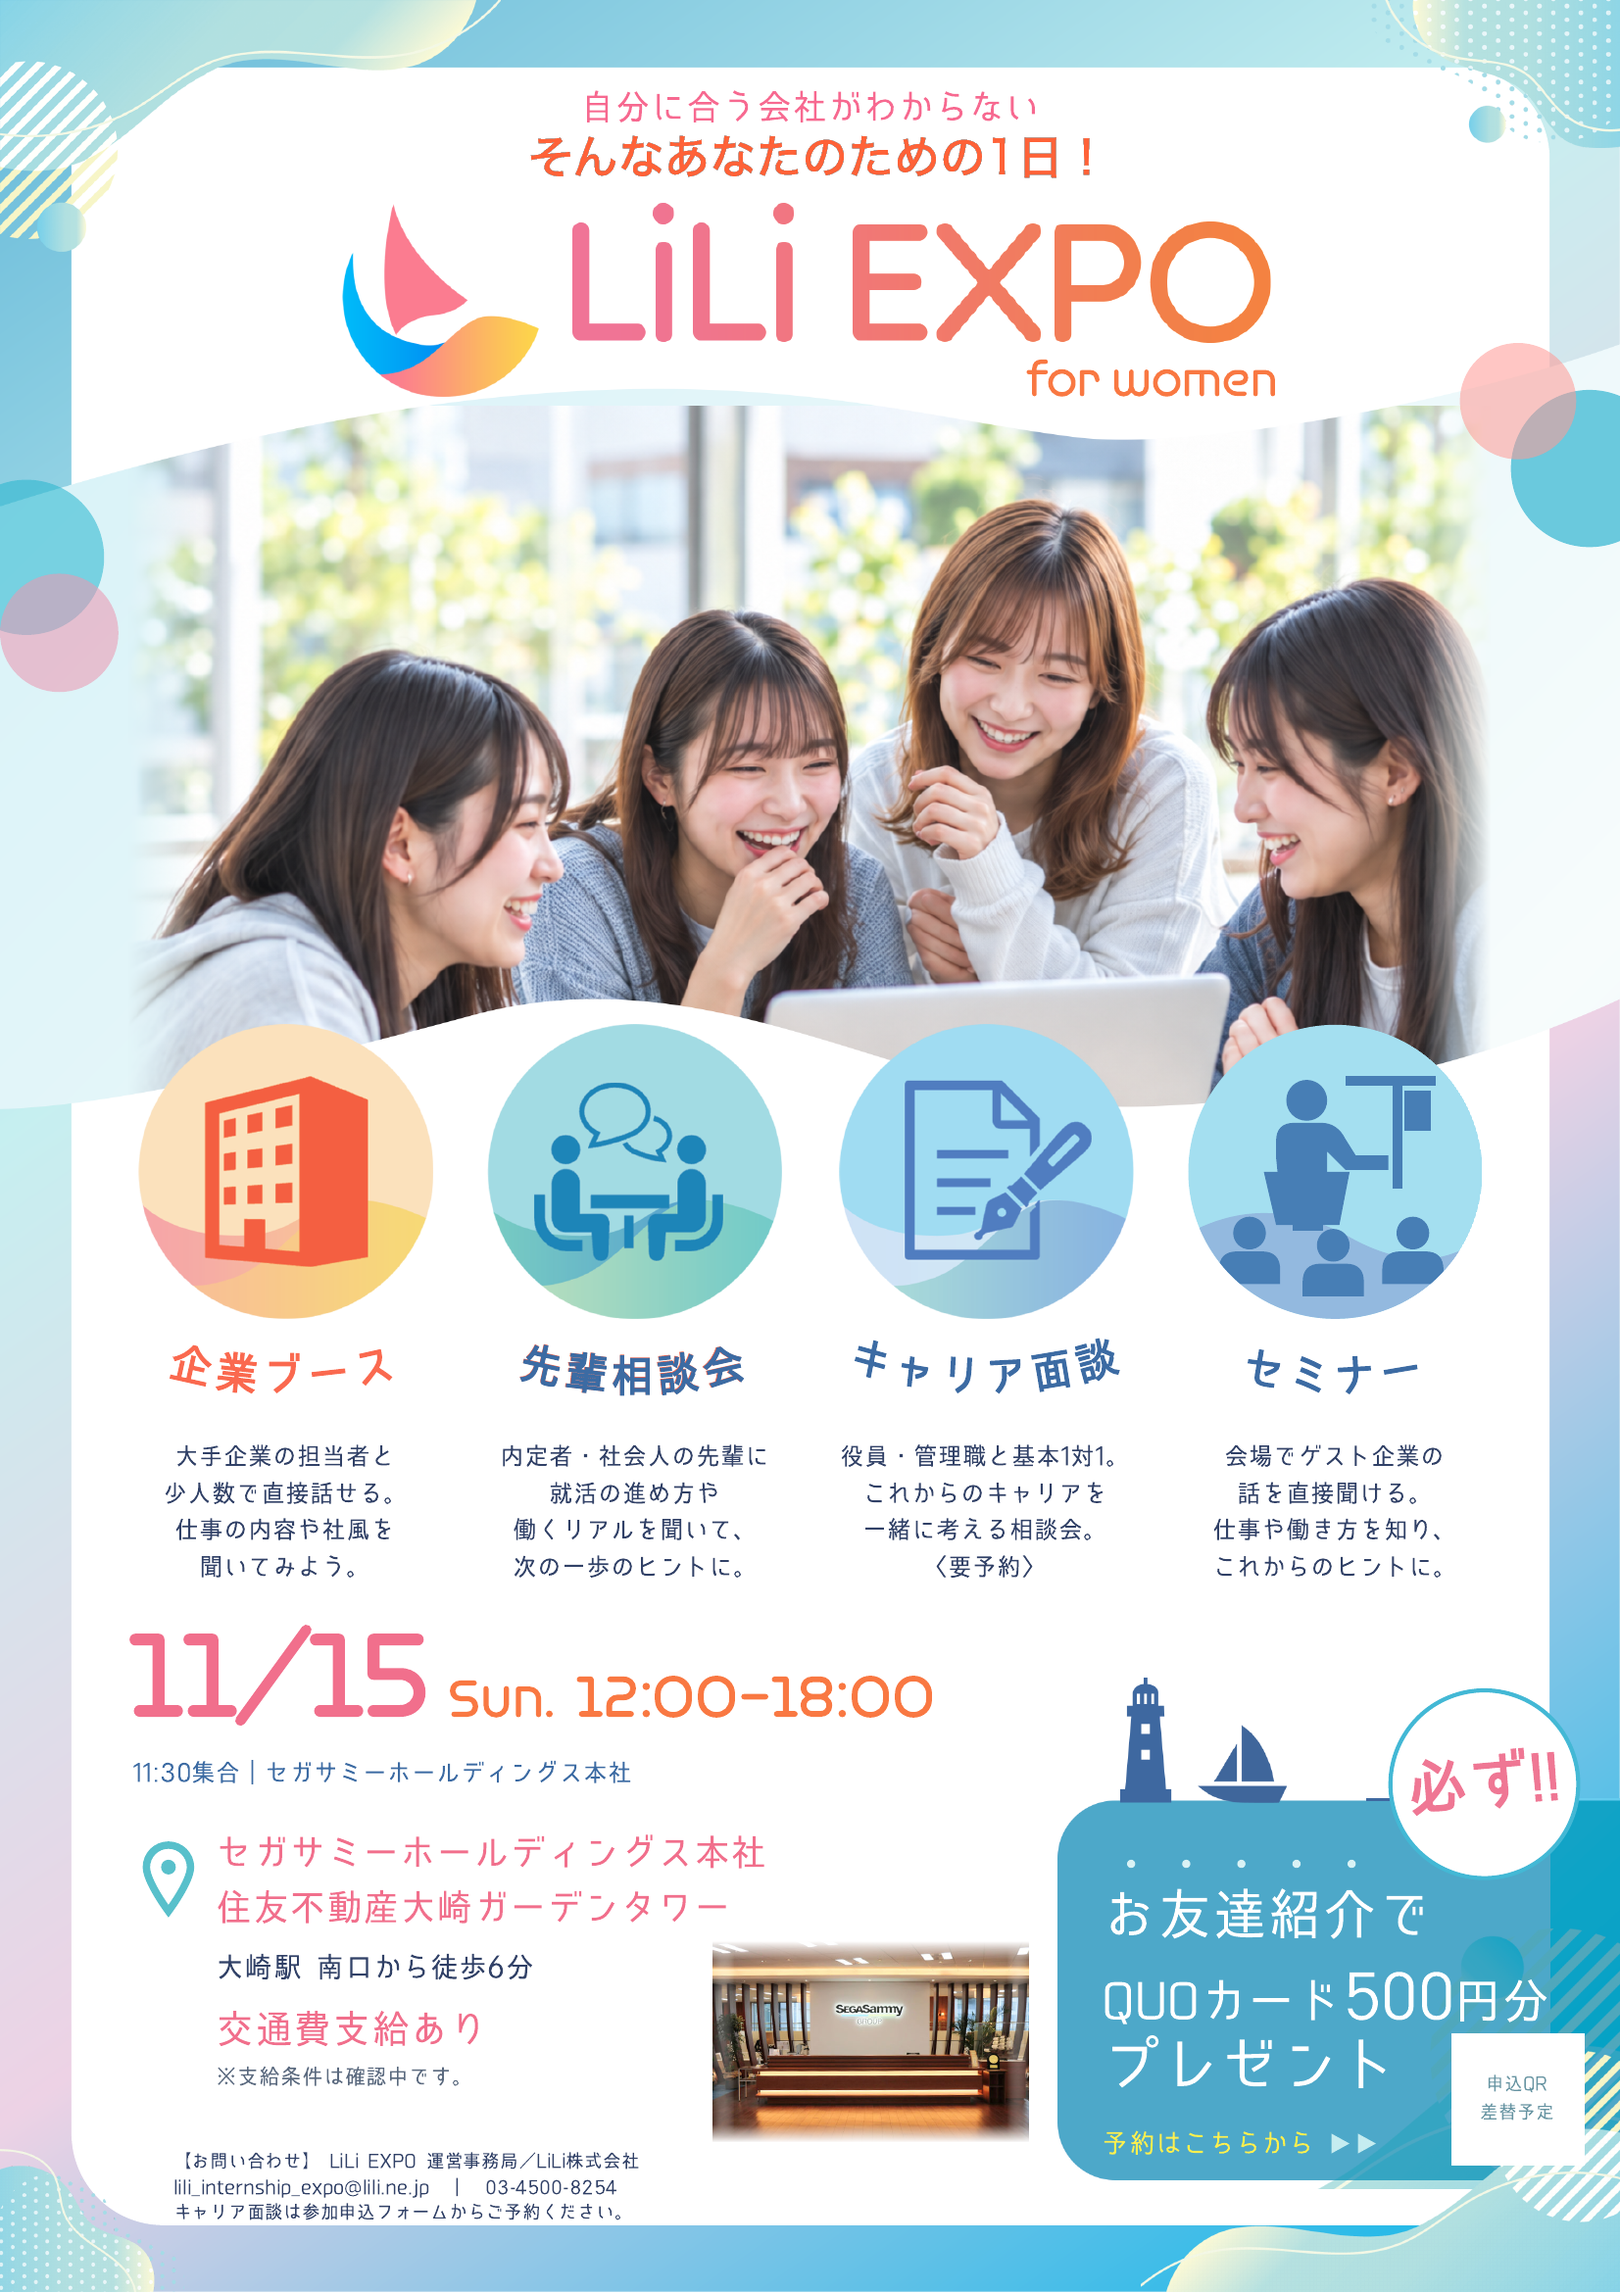
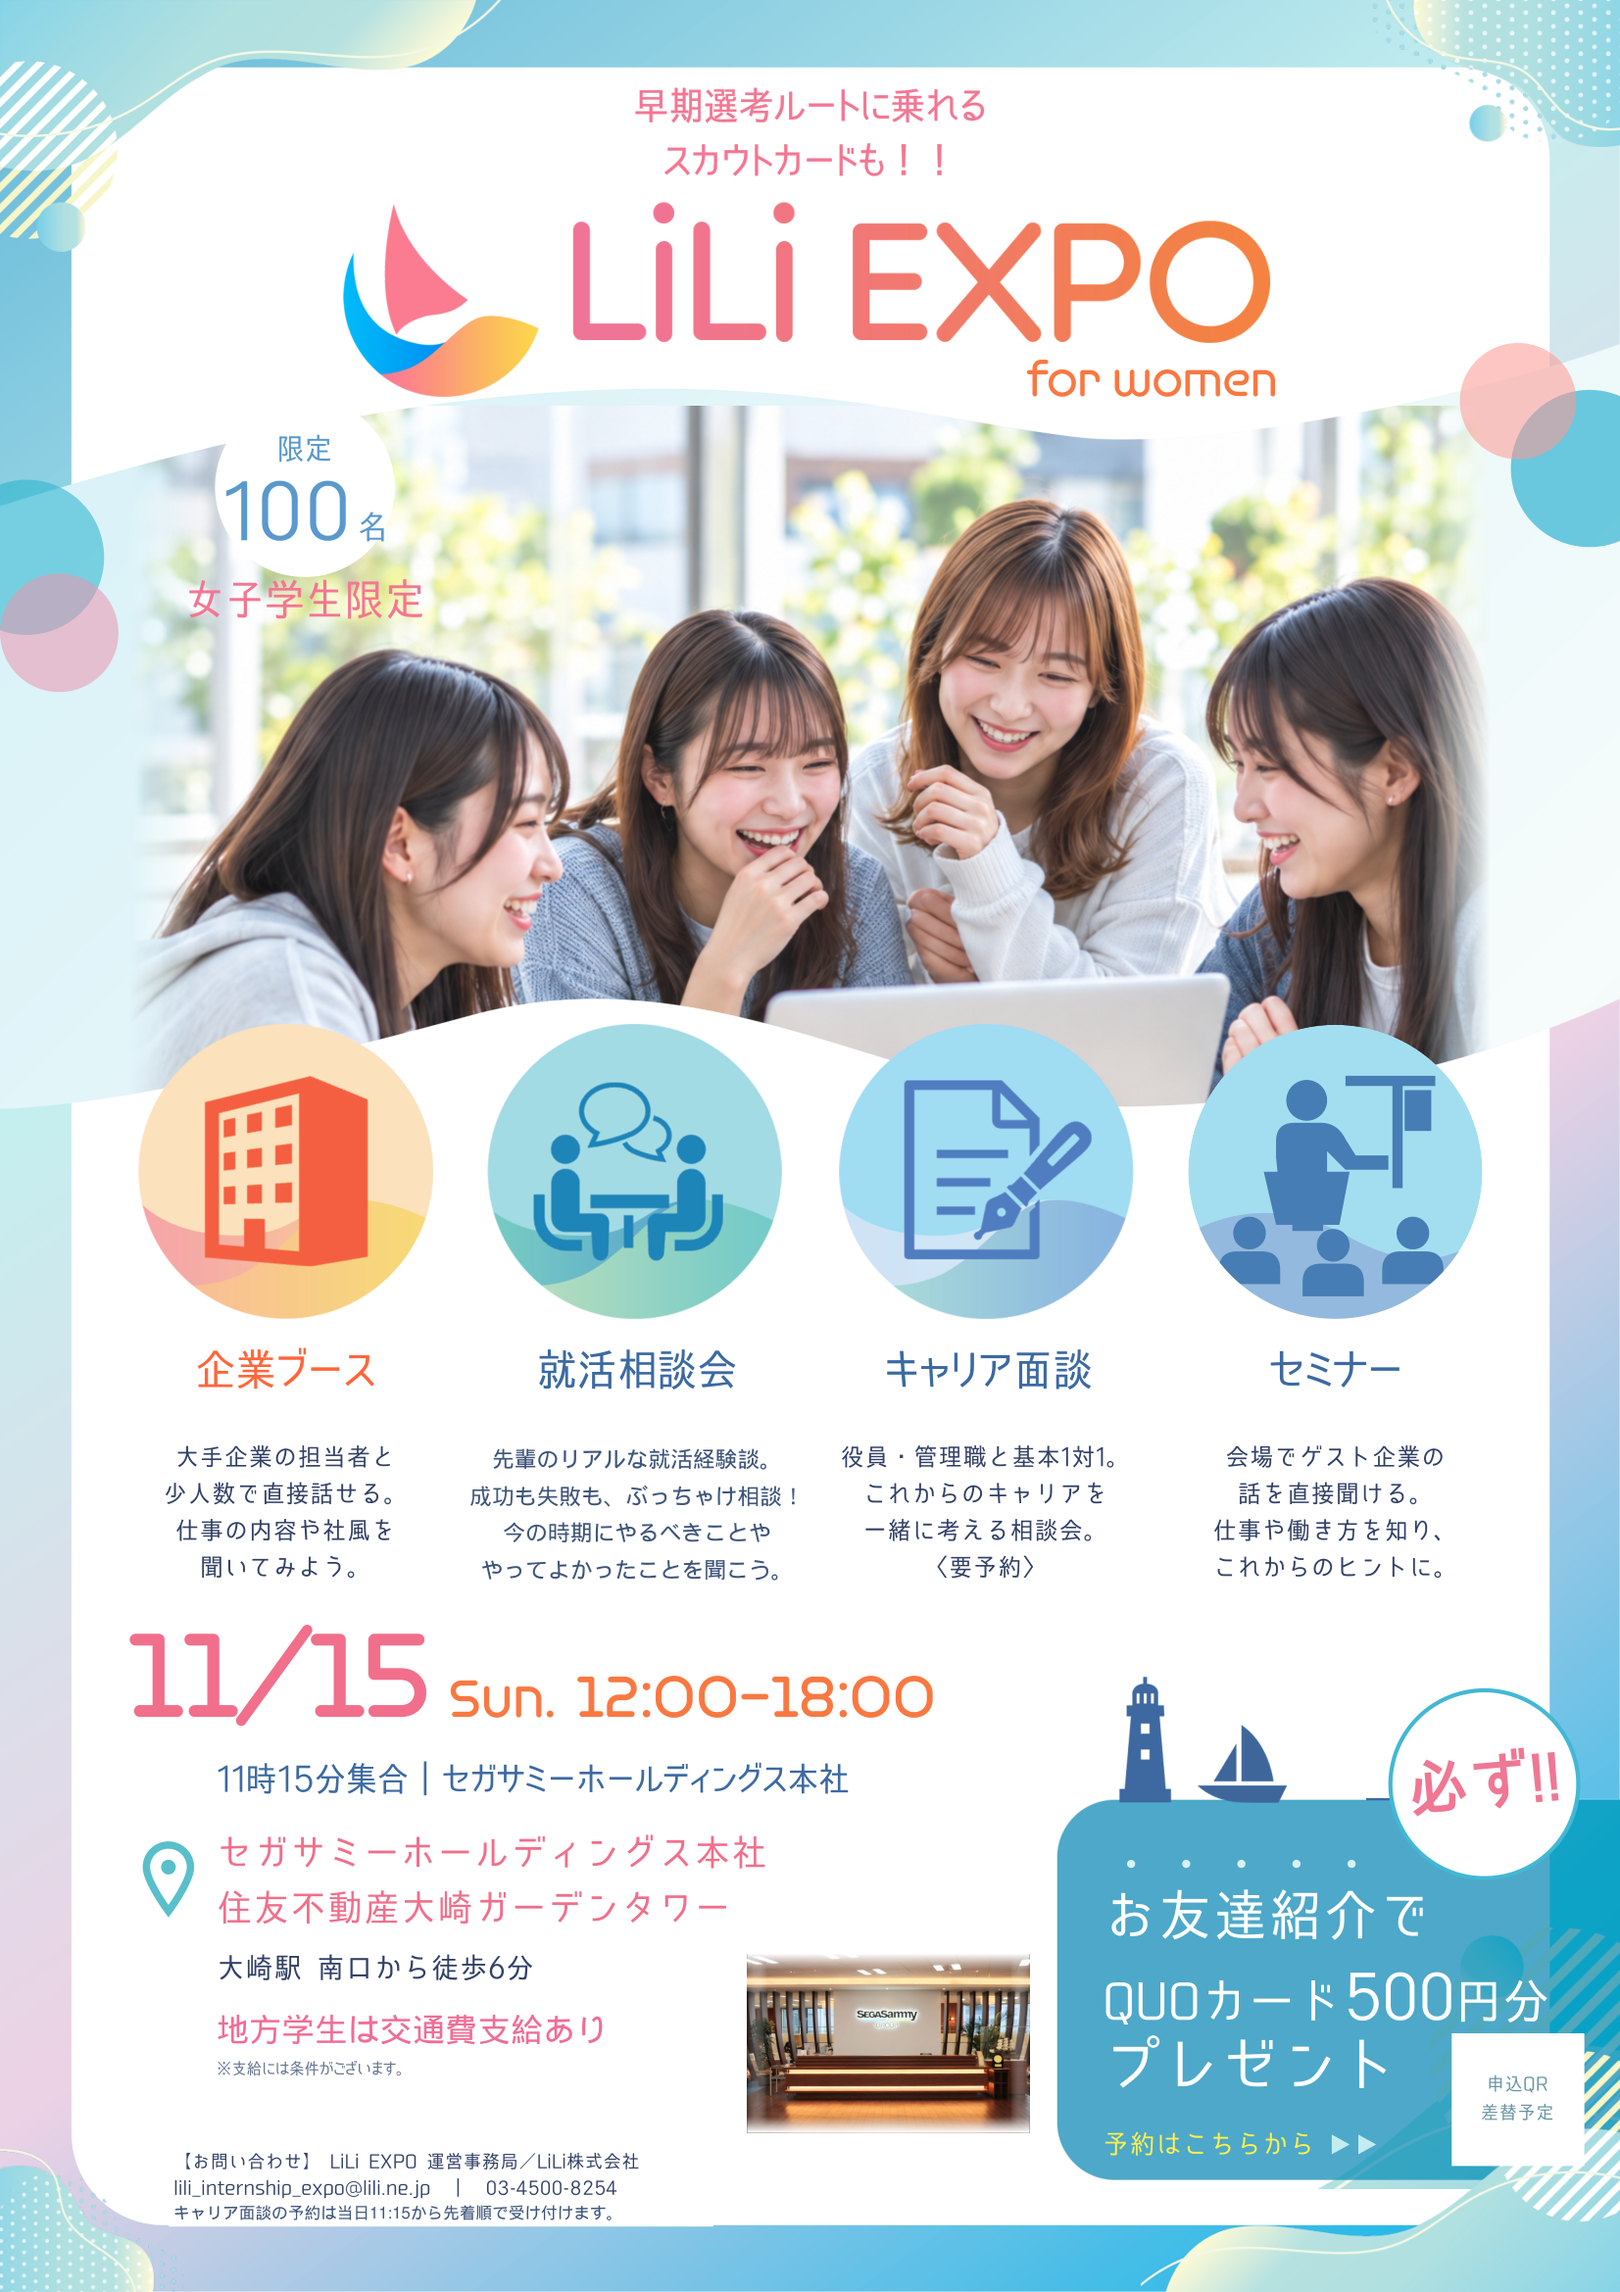
Replace flyers and simplify company showcase

diff --git a/index.html b/index.html
@@ -15,9 +15,9 @@
 
   <link rel="icon" href="assets/logo_dake.png">
 
-  <link rel="stylesheet" href="css/style.css?v=13">
+  <link rel="stylesheet" href="css/style.css?v=14">
 
-  <script src="js/content.js?v=12" defer></script>
+  <script src="js/content.js?v=14" defer></script>
 
   <script src="js/script.js?v=1" defer></script>
 
@@ -1241,20 +1241,21 @@
         <div>
           <p class="section-label">PARTICIPATING COMPANIES</p>
           <h2 id="companiesTitle">参加予定企業</h2>
-          <p class="participating-companies-lead">大手企業をはじめ、さまざまな業界の担当者と直接話せます。</p>
+          <p class="participating-companies-lead">気になる企業の担当者と、少人数で直接話せます。</p>
         </div>
-        <p class="companies-update-note"><span>NEW</span>参加企業は<br>順次追加予定</p>
+        <p class="companies-update-note"><span aria-hidden="true"></span>参加企業は順次追加予定</p>
       </div>
       <ul class="company-name-list" id="participatingCompanies" aria-label="参加予定企業一覧">
-        <li><span>01</span><strong>KDDI</strong></li>
-        <li><span>02</span><strong>PwC</strong></li>
-        <li><span>03</span><strong>PERSOL</strong></li>
-        <li><span>04</span><strong>東京ガス</strong></li>
-        <li><span>05</span><strong>博報堂</strong></li>
-        <li><span>06</span><strong>セガサミーグループ</strong></li>
+        <li><strong>KDDI株式会社</strong></li>
+        <li><strong>PwCコンサルティング合同会社</strong></li>
+        <li><strong>富士通株式会社</strong></li>
+        <li><strong>株式会社博報堂</strong></li>
+        <li><strong>パーソルテンプスタッフ株式会社</strong></li>
+        <li><strong>東京ガスiネット株式会社</strong></li>
+        <li><strong>セガサミーグループ</strong></li>
       </ul>
       <div class="company-list-footer">
-        <p><strong id="participatingCompanyCount">現在6社を掲載中</strong><span>追加企業は決まり次第、このページでお知らせします。</span></p>
+        <p><strong>and more</strong><span>追加企業は決まり次第、このページでお知らせします。</span></p>
         <p class="company-list-note">※参加企業は変更になる場合があります。</p>
       </div>
     </section>
@@ -1634,7 +1635,7 @@
 
 
           <div class="flyer-preview" id="flyerFrontPreview">
-            <img src="assets/lili-expo-2026-11-15-front.png" alt="LiLi EXPO 2026年11月15日 正式版チラシ 表面" loading="lazy">
+            <img src="assets/lili-expo-2026-11-15-front.png?v=2" alt="LiLi EXPO 2026年11月15日 最新チラシ 表面" loading="lazy">
 
           </div>
 
@@ -1655,7 +1656,7 @@
           </div>
 
           <div class="flyer-preview" id="flyerBackPreview">
-            <img src="assets/lili-expo-2026-11-15-back.png" alt="LiLi EXPO 2026年11月15日 正式版チラシ 裏面" loading="lazy">
+            <img src="assets/lili-expo-2026-11-15-back.png?v=2" alt="LiLi EXPO 2026年11月15日 最新チラシ 裏面" loading="lazy">
           </div>
 
         </article>
@@ -2288,22 +2289,14 @@
       if (participatingCompanies && typeof LILI_CONTENT !== "undefined" && Array.isArray(LILI_CONTENT.participatingCompanies)) {
         participatingCompanies.replaceChildren();
 
-        LILI_CONTENT.participatingCompanies.forEach(function (company, index) {
+        LILI_CONTENT.participatingCompanies.forEach(function (company) {
           var item = document.createElement("li");
-          var number = document.createElement("span");
           var name = document.createElement("strong");
 
-          number.textContent = String(index + 1).padStart(2, "0");
           name.textContent = company;
-          item.append(number, name);
+          item.append(name);
           participatingCompanies.appendChild(item);
         });
-
-        var participatingCompanyCount = document.getElementById("participatingCompanyCount");
-
-        if (participatingCompanyCount) {
-          participatingCompanyCount.textContent = "現在" + LILI_CONTENT.participatingCompanies.length + "社を掲載中";
-        }
       }
 
       var organizationContact = document.getElementById("organizationContact");
@@ -2318,7 +2311,7 @@
       var flyerFrontPreview = document.getElementById("flyerFrontPreview");
 
       if (flyerFrontPreview) {
-        flyerFrontPreview.innerHTML = '<img src="assets/lili-expo-2026-11-15-front.png" alt="LiLi EXPO 2026年11月15日 正式版チラシ 表面" loading="lazy">';
+        flyerFrontPreview.innerHTML = '<img src="assets/lili-expo-2026-11-15-front.png?v=2" alt="LiLi EXPO 2026年11月15日 最新チラシ 表面" loading="lazy">';
       }
 
       /*

diff --git a/css/style.css b/css/style.css
@@ -2699,30 +2699,25 @@ summary:focus-visible {
   margin-top: clamp(38px, 6vw, 76px);
   padding: clamp(42px, 6vw, 76px);
   color: var(--ink);
-  background: #fff5f8;
-  border-top: 8px solid var(--pink);
-  border-left: 1px solid #f6ccd8;
-  box-shadow: 0 30px 80px rgba(113, 76, 91, .12);
+  background: #f6fbfd;
+  border: 1px solid #d9eef6;
 }
 
-.participating-companies-section::after {
-  content: "COMPANIES";
+.participating-companies-section::before {
+  content: "";
   position: absolute;
-  top: -32px;
-  right: -18px;
-  color: rgba(241, 111, 145, .075);
-  font-size: clamp(5rem, 13vw, 11rem);
-  font-weight: 900;
-  line-height: 1;
-  letter-spacing: -.06em;
-  pointer-events: none;
+  top: 0;
+  left: 0;
+  width: clamp(90px, 14vw, 180px);
+  height: 7px;
+  background: var(--pink);
 }
 
 .participating-companies-heading {
   position: relative;
   z-index: 1;
   display: grid;
-  grid-template-columns: minmax(0, 1fr) auto;
+  grid-template-columns: minmax(0, 1fr) max-content;
   gap: clamp(30px, 6vw, 84px);
   align-items: center;
   margin-bottom: clamp(34px, 5vw, 62px);
@@ -2748,26 +2743,20 @@ summary:focus-visible {
 }
 
 .companies-update-note {
-  min-width: 220px;
   margin: 0;
-  padding: 22px 28px;
-  color: var(--ink);
-  background: #fff;
-  border: 2px solid var(--pink);
-  font-size: clamp(1.15rem, 2vw, 1.5rem);
+  color: var(--pink-dark);
+  font-size: clamp(.95rem, 1.4vw, 1.08rem);
   font-weight: 800;
-  line-height: 1.5;
+  letter-spacing: .03em;
 }
 
 .companies-update-note span {
-  display: block;
-  width: fit-content;
-  margin-bottom: 8px;
-  padding: 2px 10px;
-  color: #fff;
+  display: inline-block;
+  width: 9px;
+  height: 9px;
+  margin-right: 10px;
+  border-radius: 50%;
   background: var(--pink);
-  font-size: .68rem;
-  letter-spacing: .14em;
 }
 
 .company-name-list {
@@ -2775,39 +2764,29 @@ summary:focus-visible {
   z-index: 1;
   display: grid;
   grid-template-columns: repeat(2, minmax(0, 1fr));
+  column-gap: clamp(28px, 6vw, 72px);
   margin: 0;
   padding: 0;
   list-style: none;
-  border-top: 3px solid var(--blue);
+  border-top: 2px solid var(--blue);
 }
 
 .company-name-list li {
-  display: grid;
-  grid-template-columns: 52px minmax(0, 1fr);
-  gap: 18px;
+  display: flex;
   align-items: center;
-  min-height: 104px;
-  padding: 24px 20px;
-  border-bottom: 1px solid #e8cfd7;
+  min-height: 88px;
+  padding: 22px 8px;
+  border-bottom: 1px solid #bddfeb;
   color: var(--ink);
-  background: rgba(255, 255, 255, .56);
 }
 
 .company-name-list li:nth-child(even) {
-  border-left: 1px solid #e8cfd7;
-  background: rgba(237, 249, 253, .72);
-}
-
-.company-name-list li span {
-  color: var(--pink);
-  font-size: .75rem;
-  font-weight: 900;
-  letter-spacing: .12em;
+  border-left: 0;
 }
 
 .company-name-list li strong {
-  font-size: clamp(1.25rem, 2.2vw, 1.8rem);
-  font-weight: 800;
+  font-size: clamp(1.05rem, 1.8vw, 1.4rem);
+  font-weight: 700;
   letter-spacing: .01em;
 }
 
@@ -2831,7 +2810,10 @@ summary:focus-visible {
 }
 
 .company-list-footer strong {
-  color: var(--ink);
+  color: var(--pink-dark);
+  font-size: 1rem;
+  letter-spacing: .08em;
+  text-transform: uppercase;
 }
 
 .company-list-note {
@@ -2844,7 +2826,6 @@ summary:focus-visible {
   .participating-companies-section {
     width: min(calc(100% - 28px), var(--max-width));
     padding: 38px 22px;
-    border-top-width: 6px;
   }
 
   .participating-companies-heading {
@@ -2853,12 +2834,12 @@ summary:focus-visible {
   }
 
   .companies-update-note {
-    min-width: 0;
-    padding: 18px 20px;
+    justify-self: start;
   }
 
   .company-name-list {
     grid-template-columns: 1fr;
+    column-gap: 0;
   }
 
   .company-name-list li:nth-child(even) {
@@ -2866,8 +2847,8 @@ summary:focus-visible {
   }
 
   .company-name-list li {
-    min-height: 82px;
-    padding: 18px 8px;
+    min-height: 74px;
+    padding: 18px 4px;
   }
 
   .company-list-footer {

diff --git a/js/content.js b/js/content.js
@@ -32,15 +32,16 @@ const LILI_CONTENT = {
   // ==================== 参加予定企業 ====================
 
   /*
-    企業が増えたら、下の一覧へ "企業名" を1行追加してください。
-    サイト側の番号と掲載社数は自動で更新されます。
+    企業が増えたら、下の一覧へ "正式な企業名" を1行追加してください。
+    サイトの企業一覧へ自動で反映されます。
   */
   participatingCompanies: [
-    "KDDI",
-    "PwC",
-    "PERSOL",
-    "東京ガス",
-    "博報堂",
+    "KDDI株式会社",
+    "PwCコンサルティング合同会社",
+    "富士通株式会社",
+    "株式会社博報堂",
+    "パーソルテンプスタッフ株式会社",
+    "東京ガスiネット株式会社",
     "セガサミーグループ"
   ],
 
@@ -282,8 +283,8 @@ const LILI_CONTENT = {
   */
 
   flyer: {
-    frontImage: "assets/lili-expo-2026-11-15-front.png",
-    backImage: "assets/lili-expo-2026-11-15-back.png",
+    frontImage: "assets/lili-expo-2026-11-15-front.png?v=2",
+    backImage: "assets/lili-expo-2026-11-15-back.png?v=2",
     pdfUrl: ""
   },
 
